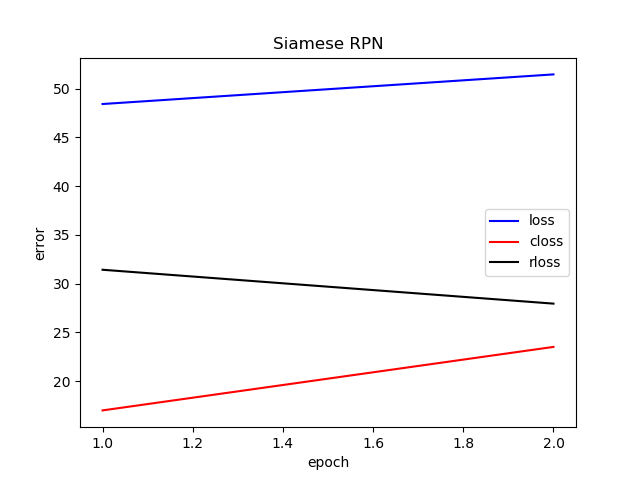
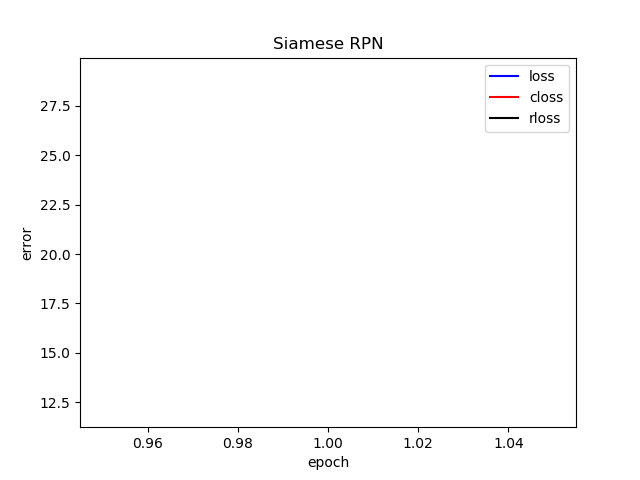
Update

diff --git a/train/data.py b/train/data.py
@@ -7,6 +7,7 @@ import torch
 import random
 import numpy as np
 import os.path as osp
+from config import Config as config
 from torch.utils.data import Dataset
 from got10k.datasets import ImageNetVID, GOT10k
 from torchvision import datasets, transforms, utils
@@ -19,10 +20,10 @@ class Anchor_ms(object):
         self.w      = feature_w
         self.h      = feature_h
         self.base   = 64                   # base size for anchor box
-        self.stride = 15                   # center point shift stride
-        self.scale  = [1/3, 1/2, 1, 2, 3]  # aspect ratio
+        self.stride = config.stride * 2 - 1# center point shift stride
+        self.scale  = config.ratios        # aspect ratio
         self.anchors= self.gen_anchors()   # xywh
-        self.eps    = 0.01
+        self.eps    = config.eps
 
     def gen_single_anchor(self):
         scale = np.array(self.scale, dtype = np.float32)
@@ -117,16 +118,15 @@ class Anchor_ms(object):
         return over_square/all_square
 
 class TrainDataLoader(Dataset):
-    def __init__(self, seq_dataset, out_feature = 19, max_inter = 80):
+    def __init__(self, seq_dataset, name):
 
-        self.anchor_generator = Anchor_ms(out_feature, out_feature)
-        #self.img_dir_path     = img_dir_path # this is a root dir contain subclass
-        self.max_inter        = max_inter
+        self.anchor_generator = Anchor_ms(config.out_feature, config.out_feature)
+        self.max_inter        = config.max_inter
         self.sub_class_dir    = seq_dataset
         self.anchors          = self.anchor_generator.gen_anchors() #centor
         self.ret              = {}
         self.count            = 0
-        self.max_batches      = 0
+        self.name             = name
 
     def get_transform_for_train(self):
         transform_list = []
@@ -136,8 +136,8 @@ class TrainDataLoader(Dataset):
 
     # tuple
     def _average(self):
-        assert self.ret.__contains__('template_img_path'), 'no template path'
-        assert self.ret.__contains__('detection_img_path'),'no detection path'
+        assert self.ret.__contains__('template_img_path'), 'no template_img_path'
+        assert self.ret.__contains__('detection_img_path'),'no detection_img_path'
         template = Image.open(self.ret['template_img_path'])
         detection= Image.open(self.ret['detection_img_path'])
 
@@ -147,35 +147,27 @@ class TrainDataLoader(Dataset):
         self.ret['mean_detection']= mean_detection
 
     def _pick_img_pairs(self, index_of_subclass):
-        # img_dir_path -> sub_class_dir_path -> template_img_path
-        # use index_of_subclass to select a sub directory
+
         assert index_of_subclass < len(self.sub_class_dir), 'index_of_subclass should less than total classes'
 
         sub_class_img_name = self.sub_class_dir[index_of_subclass][0]
         sub_class_img_num  = len(sub_class_img_name)
         sub_class_gt_name  = 'groundtruth.txt'
 
-        # select template, detection
-        # ++++++++++++++++++++++++++++ add break in sequeence [0,0,0,0] ++++++++++++++++++++++++++++++++++
         status = True
         while status:
             '''if self.max_inter >= sub_class_img_num-1:
                 self.max_inter = sub_class_img_num//2'''
 
             template_index = np.clip(random.choice(range(0, max(1, sub_class_img_num - self.max_inter))), 0, sub_class_img_num-1)
-            #print('template_index', template_index)
+
             detection_index= np.clip(random.choice(range(1, max(2, self.max_inter))) + template_index, 0, sub_class_img_num-1)
-            #print('detection_index', detection_index)
 
             template_img_path, detection_img_path  = sub_class_img_name[template_index], sub_class_img_name[detection_index]
-            #print('template_img_path, detection_img_path', template_img_path, detection_img_path)
-            #template_img_path, detection_img_path = osp.join(sub_class_dir_path, template_name), osp.join(sub_class_dir_path, detection_name)
 
             cords_of_template_abs  = self.sub_class_dir[index_of_subclass][1][template_index]
-            #print('cords_of_template_abs', cords_of_template_abs)
-            cords_of_detection_abs = self.sub_class_dir[index_of_subclass][1][detection_index]
-            #print('cords_of_detection_abs', cords_of_detection_abs)
 
+            cords_of_detection_abs = self.sub_class_dir[index_of_subclass][1][detection_index]
 
             if cords_of_template_abs[2]*cords_of_template_abs[3]*cords_of_detection_abs[2]*cords_of_detection_abs[3] != 0:
                 status = False
@@ -236,10 +228,10 @@ class TrainDataLoader(Dataset):
         self.ret['detection_rbcords_of_padding_image']  = (cx + detection_square_size//2 + left, cy + detection_square_size//2 + top)
 
         # resize
-        self.ret['template_cropped_resized'] = self.ret['template_cropped'].copy().resize((127, 127))
-        self.ret['detection_cropped_resized']= self.ret['detection_cropped'].copy().resize((271, 271))
-        self.ret['template_cropprd_resized_ratio'] = round(127/template_square_size, 2)
-        self.ret['detection_cropped_resized_ratio'] = round(271/detection_square_size, 2)
+        self.ret['template_cropped_resized'] = self.ret['template_cropped'].copy().resize((config.template_img_size, config.template_img_size))   #(127, 127)
+        self.ret['detection_cropped_resized']= self.ret['detection_cropped'].copy().resize((config.detection_img_size, config.detection_img_size))#(271, 271)
+        self.ret['template_cropprd_resized_ratio'] = round(config.template_img_size/template_square_size, 2)
+        self.ret['detection_cropped_resized_ratio'] = round(config.detection_img_size/detection_square_size, 2)
 
         # compute target in detection, and then we will compute IOU
         # whether target in detection part
@@ -312,8 +304,12 @@ class TrainDataLoader(Dataset):
         self.ret['pos_neg_diff_tensor'] = torch.Tensor(pos_neg_diff)
 
     def __getitem__(self, index):
-        if index == 8627 or index == 8629 or index == 9057 or index == 9058:
-            index += 1
+
+        index = random.choice(range(len(self.sub_class_dir)))
+        if self.name == 'GOT-10k':
+            if index == 8627 or index == 8629 or index == 9057 or index == 9058:
+                index += 1
+
         self._pick_img_pairs(index)
         self._pad_crop_resize()
         self._generate_pos_neg_diff()
@@ -322,10 +318,4 @@ class TrainDataLoader(Dataset):
         return self.ret['template_tensor'], self.ret['detection_tensor'], self.ret['pos_neg_diff_tensor']
 
     def __len__(self):
-        '''a = 0
-        for root, dirs, files in os.walk(self.img_dir_path):
-
-            for dirname in dirs:
-                dir_path = os.path.join(root, dirname)
-                a += len(os.listdir(dir_path))'''
-        return len(self.sub_class_dir)
+        return config.train_epoch_size

diff --git a/train/train_siamrpn.py b/train/train_siamrpn.py
@@ -41,7 +41,7 @@ def main():
         root_dir = 'data/ILSVRC'
         seq_dataset = ImageNetVID(root_dir, subset=('train', 'val'))
 
-    data_loader  = TrainDataLoader(seq_dataset)
+    data_loader  = TrainDataLoader(seq_dataset, name)
     train_loader = DataLoader(  dataset    = data_loader,
                                 batch_size = 1,
                                 shuffle    = True,
@@ -76,29 +76,27 @@ def main():
                    sys.exit(0)
 
                 closses.update(closs.cpu().item())
-                closses.closs_array.append(closses.avg)
-
                 rlosses.update(rloss.cpu().item())
-                rlosses.rloss_array.append(rlosses.avg)
-
                 tlosses.update(loss.cpu().item())
-                tlosses.loss_array.append(tlosses.avg)
-
-                steps.update(tlosses.count)
-                steps.steps_array.append(steps.count)
 
                 progbar.set_postfix(closs='{:05.3f}'.format(closses.avg), rloss='{:05.3f}'.format(rlosses.avg), tloss='{:05.3f}'.format(tlosses.avg))
 
                 progbar.update()
+
                 if i >= config.train_epoch_size - 1:
                     '''save plot'''
+                    closses.closs_array.append(closses.avg)
+                    rlosses.rloss_array.append(rlosses.avg)
+                    tlosses.loss_array.append(tlosses.avg)
+                    steps.update(steps.count)
+                    steps.steps_array.append(steps.count)
+
                     steps.plot(exp_name_dir)
 
                     '''save model'''
                     model.save(model, exp_name_dir, epoch)
 
                     break
-
 
 def init_weights(model, init_type='normal', gain=0.02):
     def init_func(m):

diff --git a/train/net.py b/train/net.py
@@ -42,9 +42,9 @@ class SiamRPN(nn.Module):
             nn.BatchNorm2d(512))
 
         self.conv_reg_z = nn.Conv2d(512, 512 * 4 * self.anchor_num, 3, 1)
-        self.conv_reg_x = nn.Conv2d(512, 512, 3) # 8 is batch_size
+        self.conv_reg_x = nn.Conv2d(512, 512, 3)
         self.conv_cls_z = nn.Conv2d(512, 512 * 2 * anchor_num, 3, 1)
-        self.conv_cls_x = nn.Conv2d(512, 512, 3) # 8 is batch_size
+        self.conv_cls_x = nn.Conv2d(512, 512, 3)
         self.adjust_reg = nn.Conv2d(4 * anchor_num, 4 * anchor_num*1, 1)
 
     def forward(self, z, x):
@@ -56,8 +56,8 @@ class SiamRPN(nn.Module):
         kernel_cls = self.conv_cls_z(z)
 
         k = kernel_reg.size()[-1]
-        kernel_reg = kernel_reg.view(4 * self.anchor_num, 512, k, k) # 8 is batch_size
-        kernel_cls = kernel_cls.view(2 * self.anchor_num, 512, k, k) # 8 is batch_size
+        kernel_reg = kernel_reg.view(4 * self.anchor_num, 512, k, k)
+        kernel_cls = kernel_cls.view(2 * self.anchor_num, 512, k, k) 
 
         return kernel_reg, kernel_cls
 
@@ -115,9 +115,9 @@ class TrackerSiamRPN(Tracker):
 
         rout, cout = self.net(template, detection)
 
-        cout = cout.squeeze().permute(1,2,0).reshape(-1, 2) # 8 is batch_size
+        cout = cout.squeeze().permute(1,2,0).reshape(-1, 2)
 
-        rout = rout.squeeze().permute(1,2,0).reshape(-1, 4) # 8 is batch_size
+        rout = rout.squeeze().permute(1,2,0).reshape(-1, 4)
 
         predictions, targets = (cout, rout), pos_neg_diff.squeeze()
 

diff --git a/train/config.py b/train/config.py
@@ -1,15 +1,26 @@
 class Config(object):
 
-    template_img_size = 127
+    '''config for data.py'''
+    template_img_size  = 127
     detection_img_size = 271
-    epoches = 20
-    train_epoch_size = 10000
+    out_feature = 19
+    max_inter   = 80
+
     stride = 8
-    lr = 1e-5
+    context = 0.5
+    ratios  = [0.33, 0.5, 1, 2, 3]
+    scales  = [8]
+    penalty_k = 0.055
+
+    window_influence = 0.42
+    eps = 0.01
+
+    '''config for net.py'''
+
+    '''config for train_siamrpn.py'''
+    epoches = 20
+    train_epoch_size = 10
+    lr = 1e-6
+
     weight_decay = 0.0005
     momentum = 0.9
-    context = 0.5
-    ratios = [0.33, 0.5, 1, 2, 3]
-    scales = [8]
-    penalty_k = 0.055
-    window_influence = 0.42
